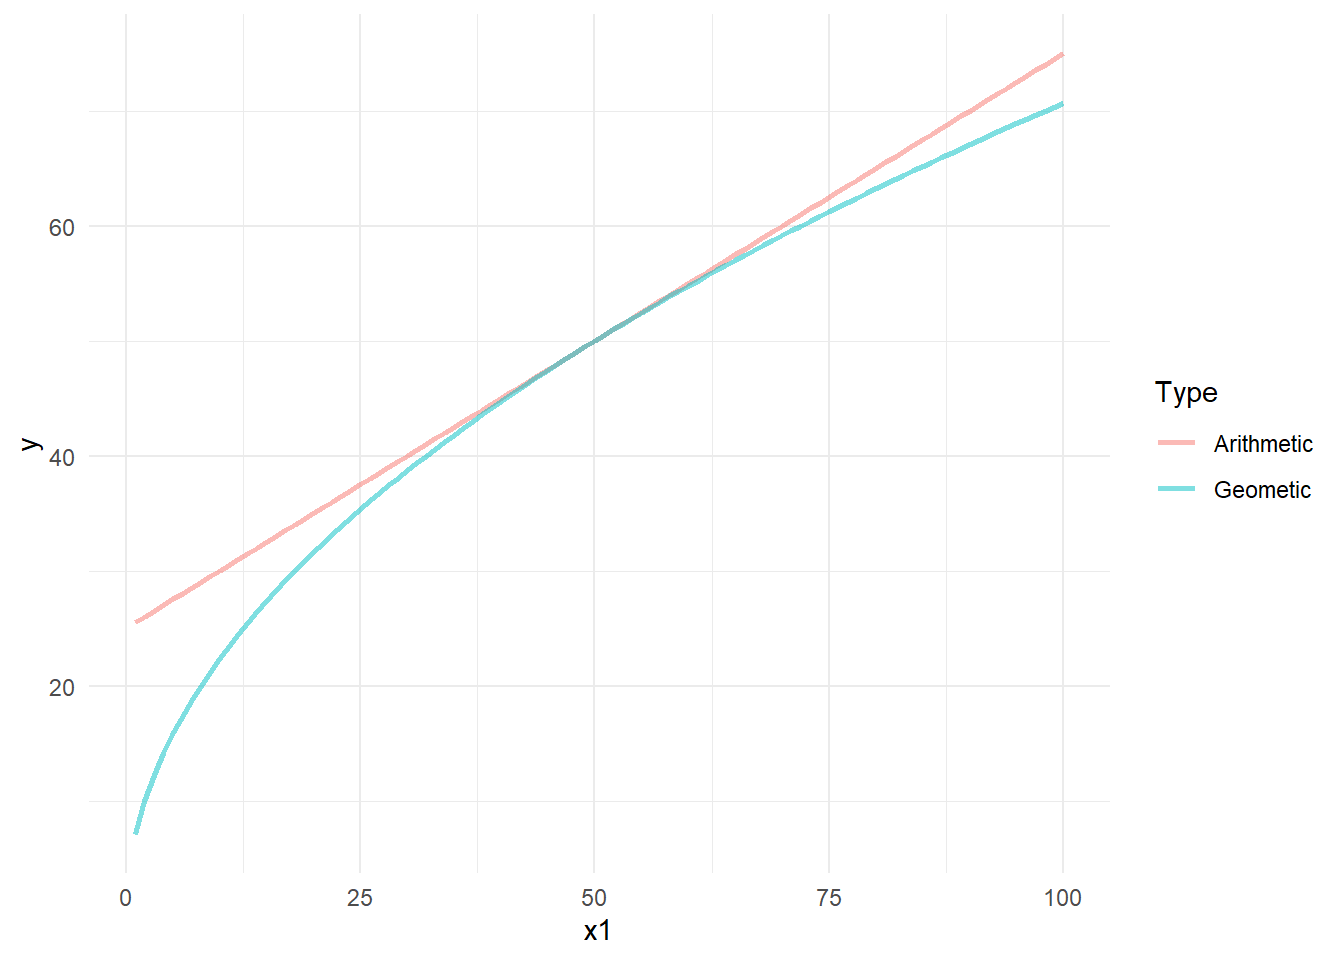
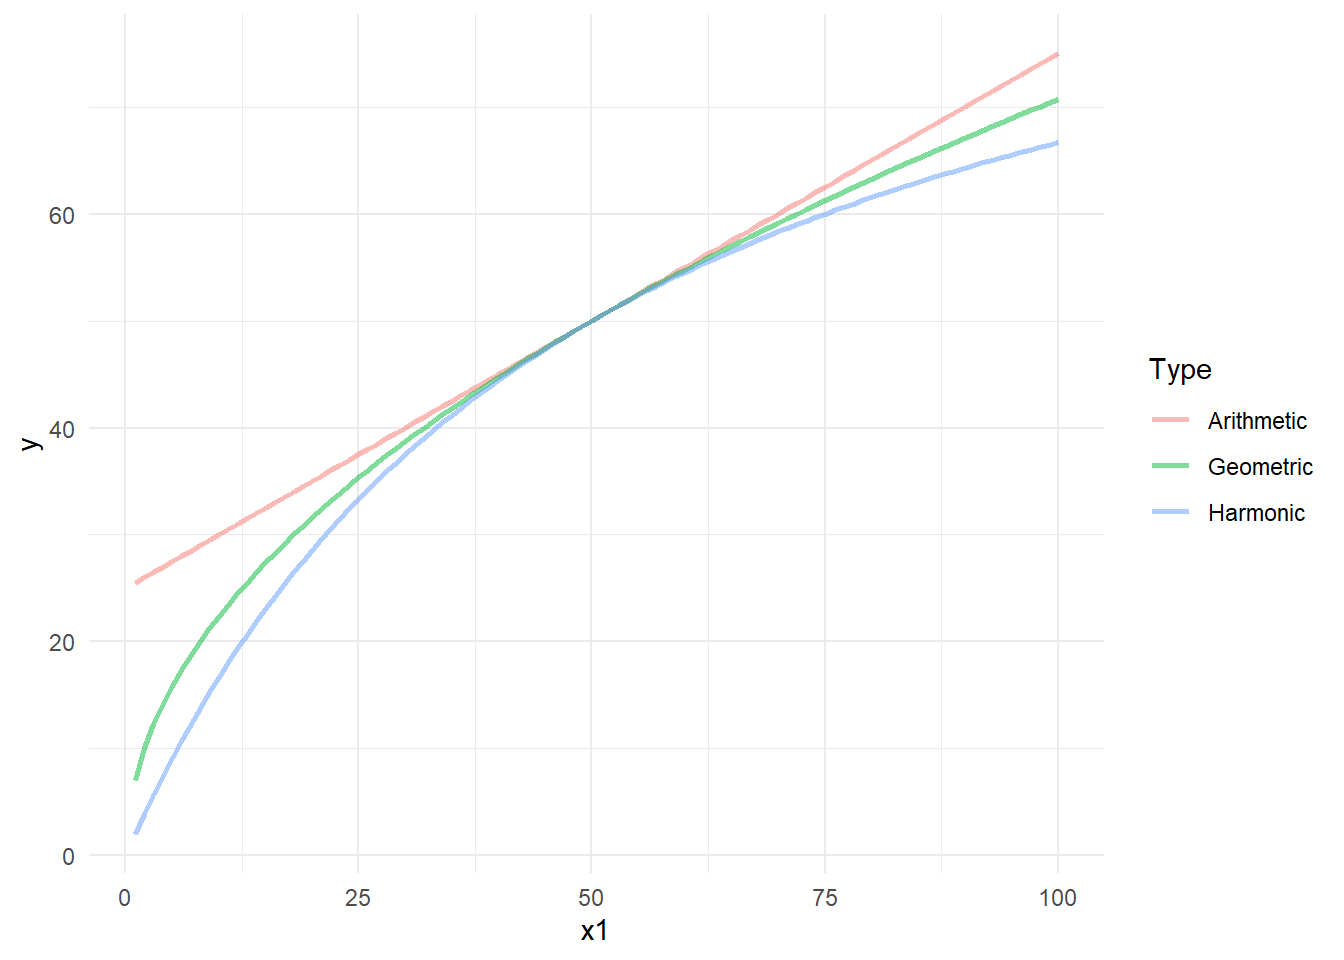
book updates with harmonic mean

diff --git a/docs/book/aggregation_weighting.html b/docs/book/aggregation_weighting.html
@@ -249,6 +249,7 @@ pre > code.sourceCode > span > a:first-child::before { text-decoration: underlin
   <ul class="collapse">
   <li><a href="#arithmetic-mean" id="toc-arithmetic-mean" class="nav-link" data-scroll-target="#arithmetic-mean"><span class="header-section-number">11.2.1</span> Arithmetic mean</a></li>
   <li><a href="#geometric-mean" id="toc-geometric-mean" class="nav-link" data-scroll-target="#geometric-mean"><span class="header-section-number">11.2.2</span> Geometric mean</a></li>
+  <li><a href="#harmonic-mean" id="toc-harmonic-mean" class="nav-link" data-scroll-target="#harmonic-mean"><span class="header-section-number">11.2.3</span> Harmonic mean</a></li>
   </ul></li>
   <li><a href="#categorical-rescaling" id="toc-categorical-rescaling" class="nav-link" data-scroll-target="#categorical-rescaling"><span class="header-section-number">11.3</span> Categorical rescaling</a></li>
   <li><a href="#coinr-implementation" id="toc-coinr-implementation" class="nav-link" data-scroll-target="#coinr-implementation"><span class="header-section-number">11.4</span> COINr implementation</a></li>
@@ -306,13 +307,19 @@ pre > code.sourceCode > span > a:first-child::before { text-decoration: underlin
 <p><span class="math display">\[ y = \left( \prod_{i=1}^d x_i^{w_i} \right)^{1 / \sum_{i=1}^d w_i} \]</span></p>
 <p>This is simply the product of each indicator to the power of its weight, all raised the the power of the inverse of the sum of the weights.</p>
 <p>The geometric mean is less compensatory than the arithmetic mean – low values in one indicator only partially substitute high values in others. For this reason, the geometric mean may sometimes be preferred when indicators represent “essentials”. An example might be quality of life: a longer life expectancy perhaps should not compensate severe restrictions on personal freedoms.</p>
-<p>The figure below shows how the two aggregation methods differ. In this simple example, two indicators on the <span class="math inline">\([1, 100]\)</span> scale are aggregated together with equal weights - the first indicator x1 has values from 1-100, and the second always has the same value of 50.</p>
+</section>
+<section id="harmonic-mean" class="level3" data-number="11.2.3">
+<h3 data-number="11.2.3" class="anchored" data-anchor-id="harmonic-mean"><span class="header-section-number">11.2.3</span> Harmonic mean</h3>
+<p>The final aggregation method is the harmonic mean, which implies even less compensation between indicators than the geometric mean. It uses the mean of the reciprocals of the indicators:</p>
+<p><span class="math display">\[ y = \frac{\sum_{i=1}^d w_i}{\sum_{i=1}^d w_i/x_i} \]</span></p>
+<p>The harmonic mean is the last of the three so-called <a href="https://en.wikipedia.org/wiki/Pythagorean_means">Pythagorean means</a>, and is often used for taking the mean of rates and ratios. However it can also be used as a general approach for providing very little compensation between indicators; a region will only get a high score if almost all of its indicators have high scores.</p>
+<p>The figure below shows how the three aggregation methods differ. In this simple example, two indicators on the <span class="math inline">\([1, 100]\)</span> scale are aggregated together with equal weights - the first indicator x1 has values from 1-100, and the second always has the same value of 50.</p>
 <div class="cell">
 <div class="cell-output-display">
 <p><img src="aggregation_weighting_files/figure-html/unnamed-chunk-1-1.png" class="img-fluid" width="672"></p>
 </div>
 </div>
-<p>The plot shows that the arithmetic mean is linear with respect to x1. However the geometric mean is not: in particular, low scores of x1 will result in a quite low aggregated score, approaching zero, despite the fact that the other indicator has a value of 50. The geometric mean never gives an aggregate score higher than the arithmetic mean.</p>
+<p>The plot shows that the arithmetic mean is linear with respect to x1. However the geometric mean is not: in particular, low scores of x1 will result in a quite low aggregated score, approaching zero, despite the fact that the other indicator has a value of 50. The geometric mean never gives an aggregate score higher than the arithmetic mean. The harmonic mean is even less compensatory and provides scores always lower than the geometric mean.</p>
 <p>Whichever aggregation method is chosen, all Admin-2 regions will be treated the same. Scores in composite indicators are dimensionless, so comparing scores between arithmetic and geometric means is not usually helpful. Usually it is better to compare ranks. Luckily, the A2SIT app has a tool for comparing scenarios which is described in <a href="scenarios.html"><span>Chapter&nbsp;7</span></a>.</p>
 </section>
 </section>

diff --git a/docs/book/results.html b/docs/book/results.html
@@ -264,7 +264,7 @@ ul.task-list li input[type="checkbox"] {
 </section>
 <section id="scenarios" class="level2" data-number="5.4">
 <h2 data-number="5.4" class="anchored" data-anchor-id="scenarios"><span class="header-section-number">5.4</span> Scenarios</h2>
-<p>By default the index is calculated using the arithmetic mean, which implies that low (high) scores in one indicator are perfectly compensated by high (low) scores in another. Optionally, select “Scenario 2” which uses the geometric mean: in this case lower scores in one indicator are less compensated by higher scores in others. Click “Recalculate” to see the new results.</p>
+<p>By default the index is calculated using the arithmetic mean, which implies that low (high) scores in one indicator are perfectly compensated by high (low) scores in another. Optionally, select “Scenario 2” which uses the geometric mean: in this case lower scores in one indicator are less compensated by higher scores in others, or “Scenario 3” which implies even less compensation. Click “Recalculate” to see the new results.</p>
 <p>Importantly, the scenario selected here will be used as the “main” results in the rest of the app, including in the “Profiles” and “Region comparison” tabs. All scenarios can additionally be compared in one place in the “Scenarios” tab, which is explained in <a href="scenarios.html"><span>Chapter&nbsp;7</span></a>.</p>
 <p>Clicking on the ‘gear’ icon in the top right of this box opens the option to adjust weights. If this is enabled, you can interactively adjust weights for the highest level of the index (below the index). However, in general equal weights are strongly recommended unless there is a specific reason to weight otherwise.</p>
 <p>More details on the aggregation methods are given in <a href="aggregation_weighting.html"><span>Chapter&nbsp;11</span></a>.</p>
